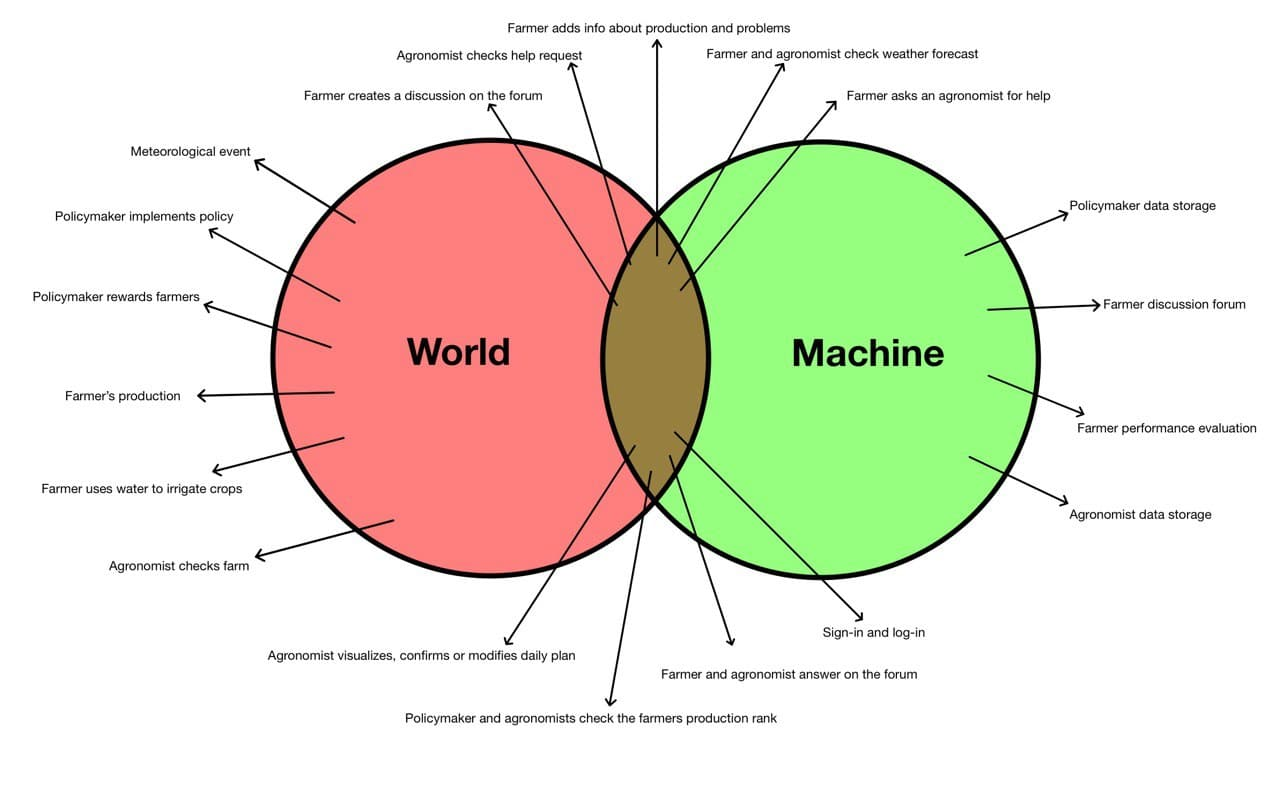
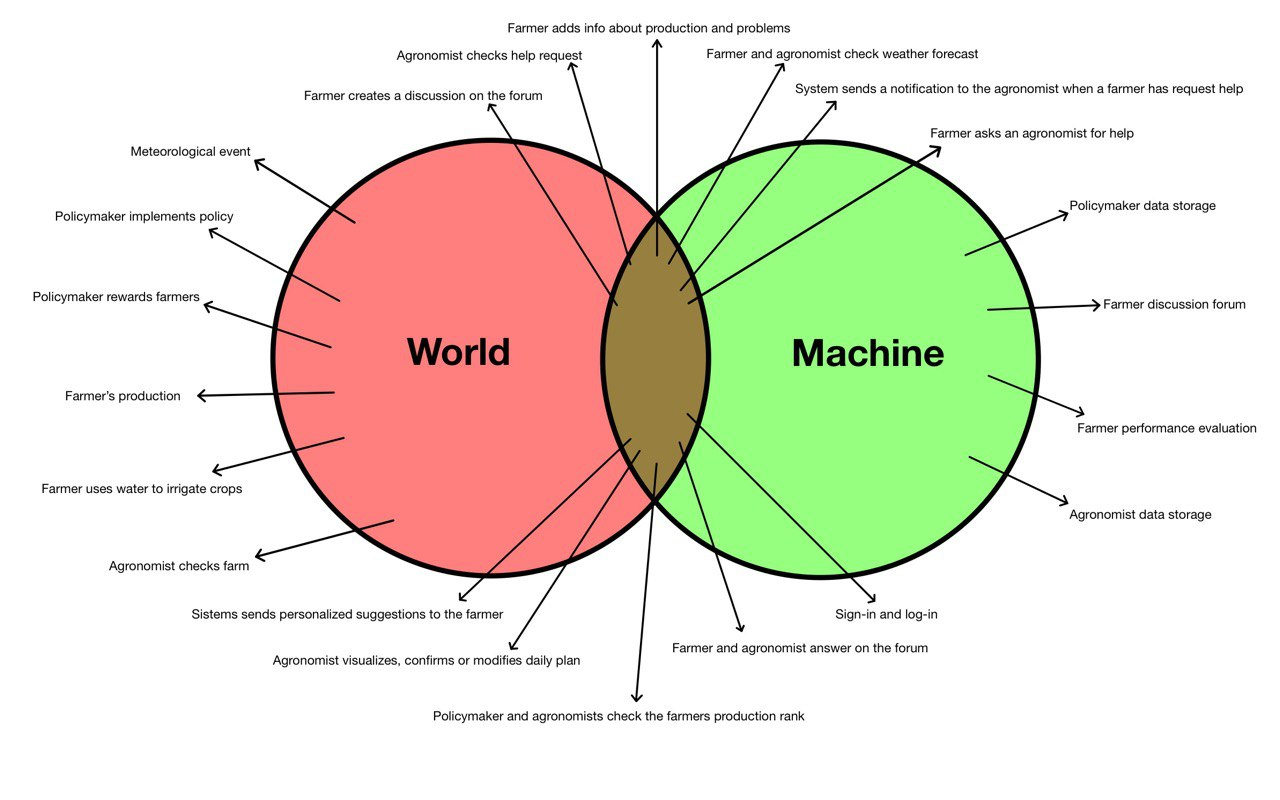
minor changes

diff --git a/RASD/Files/introduction.tex b/RASD/Files/introduction.tex
@@ -1,10 +1,9 @@
-\subsection{Purpose}
-The covid-19 pandemic has greatly highlighted the need of building a resilient food system in India, 
-where agriculture plays a pivotal role. 
+\subsection{Purpose} 
+Agriculture has a key role in India's economy and covid-19 pandemic has highlighted the need of building a resilient food system.
 This need is increased by the problems due to climate change that will impact everything from productivity to 
 livelihoods across food and farm systems and is predicted to result in a 4\%-26\% loss in net farm income towards the end of the century.
 In addition, according to Harvard Business Review, food demand is expected to increase between 59\% to 98\% by 2050.\\
-For this reason policy makers, citizens, agronomists, and farmers should share data and information to achieve better results 
+For this reason policy makers, citizens, agronomists, and farmers should share data and information to achieve better results. 
 \\\\
 Telangana region is an extended and populous state of India, whose economy is mainly driven by agriculture. 
 To address the described above problem, Telangana's government want to design, 
@@ -27,11 +26,12 @@ Furthermore, the application will provide information regarding the results of t
 \\\\
 The product needs to provide farmers the ability to visualize data relevant to them based on their location and type of production. 
 Farmers should be also able to insert in the system data about production and any problem they face. 
-They should be allowed to request help suggestions by agronomists or other farmers and create forums to discuss with their peers.
+They should be allowed to request help suggestions by agronomists and create forums to discuss with agronomists or other farmers.
 \\\\
 The application will allow agronomists to insert the area they are responsible for, receive information about requests for help, 
 and answer them. Agronomists need to know data about weather forecasts and the best performing farmers in the area; 
-they also need to visualize and update daily plan visits of farms.
+they also need to visualize and update daily plan visits of farms. At the end of each day the agronomist need to confirm the daily
+schedule.
 
 \subsection{Scope}
 To represent the scope of the project we use the "The World and The Machine" model by M. Jackson. 
@@ -87,6 +87,7 @@ those strictly related to the system ("The Machine"), and those in common betwee
 \paragraph{Controlled by the Machine}
 \begin{itemize}
     \item System sends personalized suggestions to the farmer
+    \item System sends a notification to the agronomist when a farmer has requested help
 \end{itemize}
 
 \subsubsection{Goals}

diff --git a/RASD/Files/overview.tex b/RASD/Files/overview.tex
@@ -79,7 +79,7 @@ In addition, \emph{DREAM} offers agronomists the possibility of visualizing, mod
     \item \textbf{Close a discussion}
         A farmer after receiving an effective reply can mark the answer as effective and close the discussion.
     \item \textbf{Insert production data}
-    A farmer periodically insert in the app the amount of crops produced, the type and the amount of water used.
+        A farmer periodically insert in the app the amount of crops produced, the type and the amount of water used.
 \end{itemize}
 
 \paragraph{Agronomist base functions}
